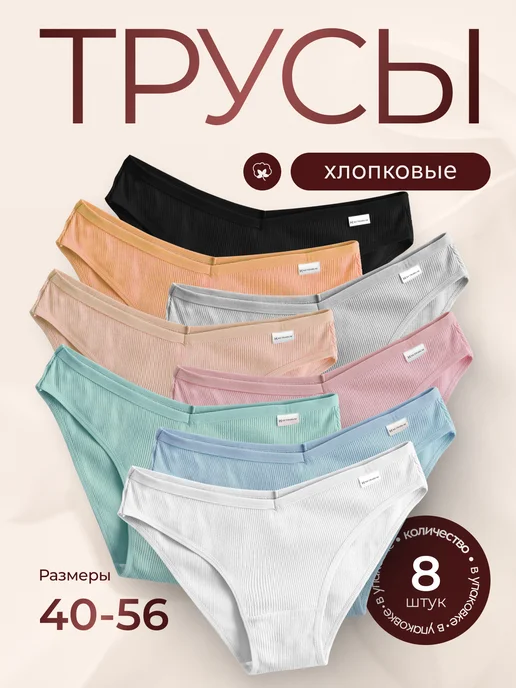
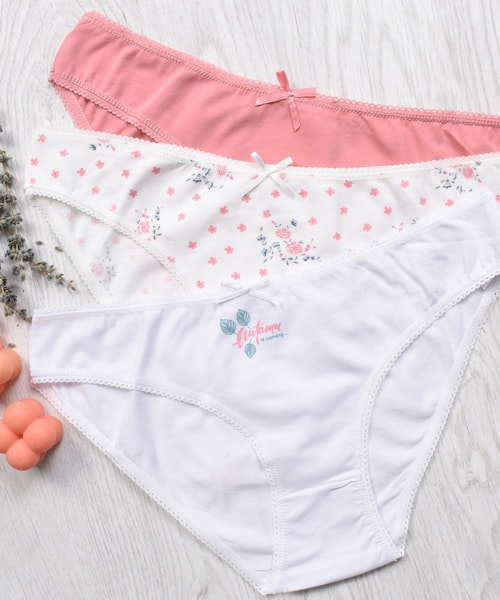
Визуальный редизайн: реальные фото вместо SVG-иллюстраций
- Раздел «О нас»: WB-коллаж → дизайнерский flatlay-коллаж одежды (9 фото, без людей)
- Каталог: чистые фото моделей для «Бриджи» и «Трусы» (без текстовых оверлеев)
- Фурнитура: реальные фото производителя (тесьма, резинка, термоэтикетка)
- Деко-элементы: SVG-иллюстрации → реальные фото (кнопка, ножницы, катушка, напёрсток, игла, рулетка)
- Мессенджеры: Viber → MAX, все ссылки сделаны «мёртвыми» (href=#)
- CSS: floating card эффект для фото-деко, flatlay-collage grid стили

diff --git a/index.html b/index.html
@@ -178,26 +178,25 @@
       </div>
 
       <div class="about__grid">
-        <!-- left: WB collage -->
+        <!-- left: flat-lay clothes collage -->
         <div class="about__media">
-          <div class="wb-collage" role="img" aria-label="Одежда Мизиев Груп на Wildberries">
-            <div class="wb-collage__grid">
-              <img class="wbc wbc--1" src="assets/img/wb-collage/wb1.webp" alt="" loading="lazy">
-              <img class="wbc wbc--2" src="assets/img/wb-collage/wb2.webp" alt="" loading="lazy">
-              <img class="wbc wbc--3" src="assets/img/wb-collage/wb3.webp" alt="" loading="lazy">
-              <img class="wbc wbc--4" src="assets/img/wb-collage/wb4.webp" alt="" loading="lazy">
-              <img class="wbc wbc--5" src="assets/img/wb-collage/wb5.webp" alt="" loading="lazy">
-              <img class="wbc wbc--6" src="assets/img/wb-collage/wb6.webp" alt="" loading="lazy">
-              <img class="wbc wbc--7" src="assets/img/wb-collage/wb7.webp" alt="" loading="lazy">
-              <img class="wbc wbc--8" src="assets/img/wb-collage/wb8.webp" alt="" loading="lazy">
-              <img class="wbc wbc--9" src="assets/img/wb-collage/wb9.webp" alt="" loading="lazy">
+          <div class="flatlay-collage" role="img" aria-label="Одежда производства Швеймаркет">
+            <div class="flatlay-collage__grid">
+              <img class="flc flc--1" src="assets/img/flatlay/flat4.jpg" alt="" loading="lazy">
+              <img class="flc flc--2" src="assets/img/flatlay/flat2.jpg" alt="" loading="lazy">
+              <img class="flc flc--3" src="assets/img/flatlay/flat7.jpg" alt="" loading="lazy">
+              <img class="flc flc--4" src="assets/img/flatlay/flat3.jpg" alt="" loading="lazy">
+              <img class="flc flc--5" src="assets/img/flatlay/flat5.jpg" alt="" loading="lazy">
+              <img class="flc flc--6" src="assets/img/flatlay/flat8.jpg" alt="" loading="lazy">
+              <img class="flc flc--7" src="assets/img/flatlay/flat1.jpg" alt="" loading="lazy">
+              <img class="flc flc--8" src="assets/img/flatlay/flat6.jpg" alt="" loading="lazy">
+              <img class="flc flc--9" src="assets/img/flatlay/flat9.jpg" alt="" loading="lazy">
             </div>
-            <div class="wb-collage__badge">
-              <svg viewBox="0 0 120 22" width="120" height="22" aria-hidden="true">
-                <rect width="120" height="22" rx="4" fill="#CB11AB"/>
-                <text x="60" y="15.5" font-family="Manrope,Arial,sans-serif" font-size="11" font-weight="800" fill="#fff" text-anchor="middle">Wildberries</text>
+            <div class="flatlay-collage__label">
+              <svg viewBox="0 0 18 18" width="18" height="18" aria-hidden="true">
+                <path fill="#FFD556" d="M9 1l2.5 5.1 5.6.8-4 3.9.9 5.6L9 13.8 4 16.4l.9-5.6-4-3.9 5.6-.8z"/>
               </svg>
-              <span>Miziev Group</span>
+              <span>Собственное производство</span>
             </div>
           </div>
         </div>
@@ -495,7 +494,7 @@
 
   <!-- ===== 7. FURNITURE INTRO ===== -->
   <section class="fur-intro" id="furniture">
-    <img class="deco deco--fi-1" src="assets/img/deco/button.svg" alt="" aria-hidden="true" loading="lazy">
+    <img class="deco deco--fi-1" src="assets/img/deco/button.webp" alt="" aria-hidden="true" loading="lazy">
     <div class="container">
       <div class="fur-intro__card">
         <div class="fur-intro__text">
@@ -526,7 +525,7 @@
 
   <!-- ===== 8. 3 PROBLEMS ===== -->
   <section class="problems">
-    <img class="deco deco--pr-1" src="assets/img/deco/scissors.svg" alt="" aria-hidden="true" loading="lazy">
+    <img class="deco deco--pr-1" src="assets/img/deco/scissors.webp" alt="" aria-hidden="true" loading="lazy">
     <div class="container">
       <div class="section-head section-head--center">
         <span class="eyebrow">Боль рынка</span>
@@ -579,8 +578,8 @@
 
   <!-- ===== 9. ASSORTMENT ===== -->
   <section class="assort">
-    <img class="deco deco--as-1" src="assets/img/deco/spool.svg" alt="" aria-hidden="true" loading="lazy">
-    <img class="deco deco--as-2" src="assets/img/deco/thimble.svg" alt="" aria-hidden="true" loading="lazy">
+    <img class="deco deco--as-1" src="assets/img/deco/spool.webp" alt="" aria-hidden="true" loading="lazy">
+    <img class="deco deco--as-2" src="assets/img/deco/thimble.webp" alt="" aria-hidden="true" loading="lazy">
     <div class="container">
       <div class="section-head section-head--center">
         <span class="eyebrow">Ассортимент склада</span>
@@ -619,7 +618,7 @@
         <article class="prod-card">
           <span class="prod-card__own">Своё производство</span>
           <div class="prod-card__art">
-            <img src="assets/img/notions/tesma.webp" alt="Тесьма — рулон" loading="lazy" decoding="async">
+            <img src="assets/img/notions/tesma.jpg" alt="Тесьма — рулон" loading="lazy" decoding="async">
           </div>
           <h3>Тесьма</h3>
           <p>Любая ширина, плотность, цвет. От строчечной до окантовочной. Производим под индивидуальные заказы.</p>
@@ -628,7 +627,7 @@
         <article class="prod-card">
           <span class="prod-card__own">Своё производство</span>
           <div class="prod-card__art">
-            <img src="assets/img/notions/rezinka.webp" alt="Резинка — рулон" loading="lazy" decoding="async">
+            <img src="assets/img/notions/rezinka.jpg" alt="Резинка — рулон" loading="lazy" decoding="async">
           </div>
           <h3>Резинка</h3>
           <p>Эластичная, прочная, не «садится» после стирок. Все типы плетений: продольная, поперечная, рифлёная.</p>
@@ -637,7 +636,7 @@
         <article class="prod-card">
           <span class="prod-card__own">Своё производство</span>
           <div class="prod-card__art">
-            <img src="assets/img/notions/thermolabel.webp" alt="Термоэтикетка — нанесение утюгом" loading="lazy" decoding="async">
+            <img src="assets/img/notions/thermolabel.jpg" alt="Термоэтикетка — нанесение утюгом" loading="lazy" decoding="async">
           </div>
           <h3>Термоэтикетка</h3>
           <p>С вашим логотипом, размерным рядом, составом. Стойкое крепление, не выгорает, не отслаивается.</p>
@@ -648,7 +647,7 @@
 
   <!-- ===== 11. 5 STEPS ===== -->
   <section class="steps">
-    <img class="deco deco--st-1" src="assets/img/deco/needle.svg" alt="" aria-hidden="true" loading="lazy">
+    <img class="deco deco--st-1" src="assets/img/deco/needle.webp" alt="" aria-hidden="true" loading="lazy">
     <div class="container">
       <div class="section-head section-head--center">
         <span class="eyebrow">Производство под вас</span>
@@ -682,7 +681,7 @@
 
   <!-- ===== 12. METRICS / STANDARD ===== -->
   <section class="metrics">
-    <img class="deco deco--mt-1" src="assets/img/deco/tape.svg" alt="" aria-hidden="true" loading="lazy">
+    <img class="deco deco--mt-1" src="assets/img/deco/tape.webp" alt="" aria-hidden="true" loading="lazy">
     <div class="container">
       <div class="metrics__head">
         <h2 class="section-title section-title--inverse">Тесьма, резинка и термоэтикетка — <span class="accent-yellow">3 надёжных компонента</span> в вашем изделии</h2>
@@ -750,16 +749,19 @@
           </div>
 
           <div class="final-cta__messengers">
-            <a href="https://wa.me/[phone redacted]" class="msg msg--wa" aria-label="WhatsApp">
+            <a href="#" class="msg msg--wa" aria-label="WhatsApp" onclick="return false;">
               <svg viewBox="0 0 24 24" width="22" height="22" aria-hidden="true"><path fill="currentColor" d="M.057 24l1.687-6.163c-1.041-1.804-1.588-3.849-1.587-5.946.003-6.556 5.338-11.891 11.893-11.891 3.181.001 6.167 1.24 8.413 3.488 2.245 2.248 3.481 5.236 3.48 8.414-.003 6.557-5.338 11.892-11.893 11.892-1.99-.001-3.951-.5-5.688-1.448L.057 24zm6.597-3.807c1.676.995 3.276 1.591 5.392 1.592 5.448 0 9.886-4.434 9.889-9.885.002-5.462-4.415-9.89-9.881-9.892-5.452 0-9.887 4.434-9.889 9.884-.001 2.225.651 3.891 1.746 5.634l-.999 3.648 3.742-.981zm11.387-5.464c-.074-.124-.272-.198-.57-.347-.297-.149-1.758-.868-2.031-.967-.272-.099-.47-.149-.669.149-.198.297-.768.967-.941 1.165-.173.198-.347.223-.644.074-.297-.149-1.255-.462-2.39-1.475-.883-.788-1.48-1.761-1.653-2.059-.173-.297-.018-.458.13-.606.134-.133.297-.347.446-.521.151-.172.2-.296.3-.495.099-.198.05-.372-.025-.521-.075-.149-.669-1.612-.916-2.207-.242-.579-.487-.501-.669-.51l-.57-.01c-.198 0-.52.074-.792.372s-1.04 1.016-1.04 2.479 1.065 2.876 1.213 3.074c.149.198 2.095 3.2 5.076 4.487.709.306 1.263.489 1.694.626.712.226 1.36.194 1.872.118.571-.085 1.758-.719 2.006-1.413.248-.695.248-1.29.173-1.414z"/></svg>
               WhatsApp
             </a>
-            <a href="https://t.me/[phone redacted]" class="msg msg--tg" aria-label="Telegram">
+            <a href="#" class="msg msg--tg" aria-label="Telegram" onclick="return false;">
               <svg viewBox="0 0 24 24" width="22" height="22" aria-hidden="true"><path fill="currentColor" d="m9.78 18.65.28-4.23 7.68-6.92c.34-.31-.07-.46-.52-.19L7.74 13.3 3.64 12c-.88-.25-.89-.86.2-1.3l15.97-6.16c.73-.33 1.43.18 1.15 1.3l-2.72 12.81c-.19.91-.74 1.13-1.5.71L12.6 16.3l-1.99 1.93c-.23.23-.42.42-.83.42z"/></svg>
               Telegram
             </a>
-            <a href="https://max.ru/[phone redacted]" class="msg msg--max" aria-label="MAX">
-              <svg viewBox="0 0 24 24" width="22" height="22" aria-hidden="true"><text y="18" font-family="Arial Black,sans-serif" font-size="12" font-weight="900" fill="currentColor">MAX</text></svg>
+            <a href="#" class="msg msg--max" aria-label="MAX" onclick="return false;">
+              <svg viewBox="0 0 24 24" width="22" height="22" aria-hidden="true" fill="none">
+                <rect width="24" height="18" rx="4" y="3" fill="currentColor"/>
+                <text x="12" y="15.5" font-family="Arial Black,sans-serif" font-size="7.5" font-weight="900" fill="white" text-anchor="middle">MAX</text>
+              </svg>
               MAX
             </a>
           </div>
@@ -858,16 +860,19 @@
         <div class="footer__col">
           <h4>Мессенджеры</h4>
           <div class="footer__msgs">
-            <a href="https://wa.me/[phone redacted]" class="msg msg--wa" aria-label="WhatsApp">
+            <a href="#" class="msg msg--wa" aria-label="WhatsApp" onclick="return false;">
               <svg viewBox="0 0 24 24" width="18" height="18" aria-hidden="true"><path fill="currentColor" d="M20.5 3.5C18.3 1.3 15.3 0 12 0 5.4 0 0 5.4 0 12c0 2.1.6 4.2 1.6 6L0 24l6.2-1.6c1.7 1 3.7 1.5 5.8 1.5 6.6 0 12-5.4 12-12 0-3.3-1.3-6.3-3.5-8.4zM12 22c-1.9 0-3.7-.5-5.3-1.5l-.4-.2-3.7 1 1-3.6-.2-.4c-1-1.7-1.6-3.6-1.6-5.6 0-5.5 4.5-10 10-10 2.7 0 5.2 1 7.1 2.9 1.9 1.9 2.9 4.4 2.9 7.1 0 5.5-4.5 10-10 10z"/></svg>
               WhatsApp
             </a>
-            <a href="https://t.me/[phone redacted]" class="msg msg--tg" aria-label="Telegram">
+            <a href="#" class="msg msg--tg" aria-label="Telegram" onclick="return false;">
               <svg viewBox="0 0 24 24" width="18" height="18" aria-hidden="true"><path fill="currentColor" d="m9.78 18.65.28-4.23 7.68-6.92c.34-.31-.07-.46-.52-.19L7.74 13.3 3.64 12c-.88-.25-.89-.86.2-1.3l15.97-6.16c.73-.33 1.43.18 1.15 1.3l-2.72 12.81c-.19.91-.74 1.13-1.5.71L12.6 16.3l-1.99 1.93c-.23.23-.42.42-.83.42z"/></svg>
               Telegram
             </a>
-            <a href="https://max.ru/[phone redacted]" class="msg msg--max" aria-label="MAX">
-              <svg viewBox="0 0 24 24" width="18" height="18" aria-hidden="true"><text y="18" font-family="Arial Black,sans-serif" font-size="12" font-weight="900" fill="currentColor">MAX</text></svg>
+            <a href="#" class="msg msg--max" aria-label="MAX" onclick="return false;">
+              <svg viewBox="0 0 24 24" width="18" height="18" aria-hidden="true" fill="none">
+                <rect width="24" height="18" rx="4" y="3" fill="currentColor"/>
+                <text x="12" y="15.5" font-family="Arial Black,sans-serif" font-size="7.5" font-weight="900" fill="white" text-anchor="middle">MAX</text>
+              </svg>
               MAX
             </a>
           </div>

diff --git a/css/styles.css b/css/styles.css
@@ -1868,49 +1868,68 @@ body.no-scroll { overflow: hidden; }
   .deco--mt-1 { width: 115px; top: 24px; left: -44px; }
 }
 
-/* ===== WB Photo Collage (About section) ===== */
-.wb-collage {
+/* ===== Flat-Lay Clothes Collage (About section) ===== */
+.flatlay-collage {
   position: relative;
   border-radius: var(--r-xl);
   overflow: hidden;
   max-width: 440px;
   margin: 0 auto;
-  border: 5px solid var(--c-accent);
   box-shadow: var(--sh-lg);
+  border: 4px solid var(--c-accent);
 }
-.wb-collage__grid {
+.flatlay-collage__grid {
   display: grid;
-  grid-template-columns: repeat(3, 1fr);
-  grid-template-rows: repeat(3, 1fr);
+  grid-template-columns: 3fr 2fr 2fr;
+  grid-template-rows: 180px 100px 180px;
   gap: 3px;
-  background: var(--c-accent);
-  aspect-ratio: 3/4;
+  background: var(--c-text);
 }
-.wbc {
+.flc {
   width: 100%;
   height: 100%;
   object-fit: cover;
   display: block;
-  transition: transform .35s ease;
+  transition: transform .4s ease;
 }
-.wbc--1 { grid-column: 1/3; grid-row: 1/3; }
-.wb-collage:hover .wbc { transform: scale(1.04); }
-.wb-collage__badge {
+.flc--1 { grid-column: 1; grid-row: 1/3; }
+.flc--2 { grid-column: 2; grid-row: 1; }
+.flc--3 { grid-column: 3; grid-row: 1; }
+.flc--4 { grid-column: 2/4; grid-row: 2; }
+.flc--5 { grid-column: 1; grid-row: 3; }
+.flc--6 { grid-column: 2; grid-row: 3; }
+.flc--7 { grid-column: 3; grid-row: 3; }
+/* hide unused */
+.flc--8, .flc--9 { display: none; }
+.flatlay-collage:hover .flc { transform: scale(1.04); }
+.flatlay-collage__label {
   position: absolute;
   bottom: 14px;
   left: 14px;
   display: flex;
   align-items: center;
-  gap: 8px;
-  background: rgba(255,255,255,.92);
+  gap: 7px;
+  background: rgba(255,255,255,.93);
   backdrop-filter: blur(6px);
   border-radius: 10px;
-  padding: 6px 12px 6px 8px;
+  padding: 5px 12px 5px 8px;
   font-size: 13px;
   font-weight: 700;
   color: var(--c-text);
   box-shadow: 0 2px 12px rgba(0,0,0,.15);
 }
 @media (max-width: 640px) {
-  .wb-collage { max-width: 100%; }
+  .flatlay-collage { max-width: 100%; }
+  .flatlay-collage__grid { grid-template-rows: 140px 80px 140px; }
+}
+
+/* ===== Deco photo items — real product photos as floating cards ===== */
+/* Universal treatment: white card + shadow works on any section bg */
+.deco {
+  background: rgba(255,255,255,.96);
+  padding: 12px;
+  border-radius: 20px;
+  box-shadow: 0 16px 40px rgba(0,0,0,.28), 0 4px 12px rgba(0,0,0,.16);
+  filter: none;
+  object-fit: contain;
 }